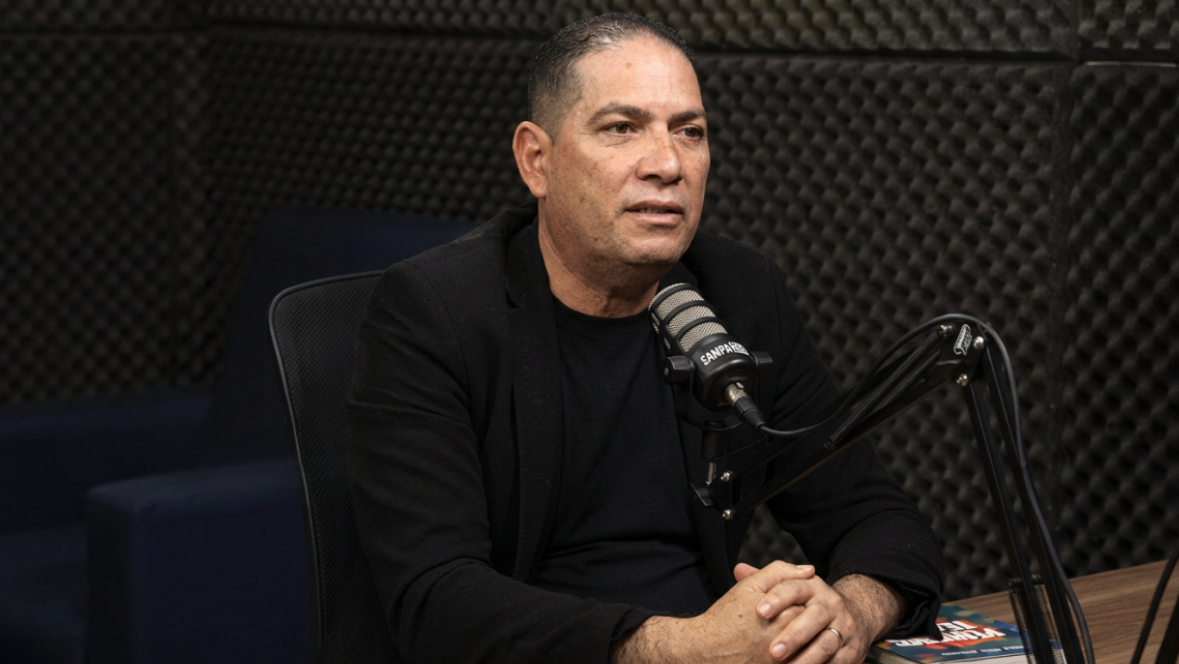
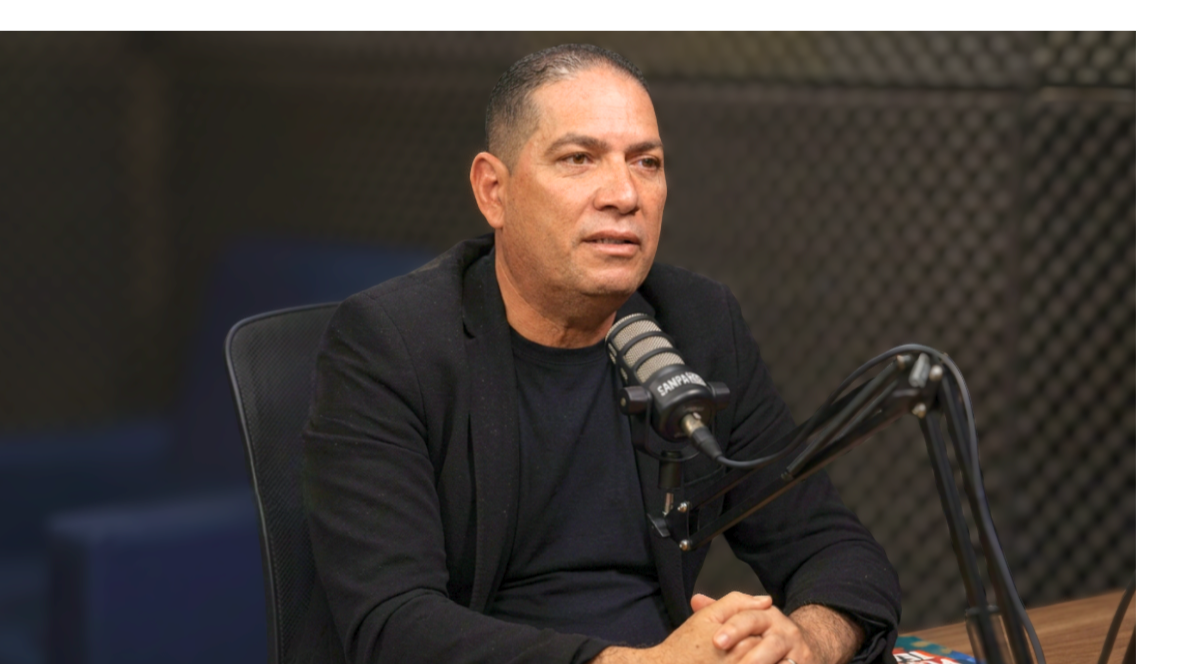
feat: foto tratada do Luque, abrindo o enquadramento no rosto
Troca a foto pela versão tratada que o André mandou e corrige o mesmo erro na
lista de papéis: psicólogo, não psicanalista.

O arquivo muda de nome de propósito. O conteúdo tinha sido trocado mantendo
`luque-podcast.webp`, e como a URL do otimizador não mudava, o navegador
continuava servindo a foto antiga do cache — o mesmo aconteceria no CDN em
produção. Nome novo, cache morto.

O clip-path que abre a foto era simétrico, então a janela nascia no meio da
tela e pegava metade rosto, metade peito. Topo e base agora abrem de alturas
diferentes (14%/36%), o que leva a janela para o terço superior, onde o rosto
está. O estado aberto é o mesmo de antes.

Resolução segue 1179x664 — a foto tratada tem o mesmo tamanho da anterior, e
falta pixel na origem para a nitidez que o layout pede.

diff --git a/components/quem-e-o-luque.tsx b/components/quem-e-o-luque.tsx
@@ -22,7 +22,7 @@ const CRP = "CRP 139094";
 
 // Os papéis vêm do André: o cara tem repertório clínico e é pai, avô, pastor e
 // músico. É essa soma que faz alguém confiar o próprio pânico a ele.
-const PAPEIS = ["psicanalista", "pai", "avô", "pastor", "músico"];
+const PAPEIS = ["psicólogo", "pai", "avô", "pastor", "músico"];
 
 // TODO (André): copy provisória. Formação e tempo de clínica não estão aqui
 // porque eu não invento dado do Luque.
@@ -76,12 +76,15 @@ export function QuemEOLuque() {
 
   // A foto cresce do centro até ocupar a tela — clip-path em vez de escala,
   // pra imagem não distorcer nem perder nitidez no caminho.
+  // A janela nasce sobre o rosto, não no meio da tela: ele fica no terço
+  // superior da foto, então topo e base abrem de alturas diferentes.
   const recorte = useTransform(scrollYProgress, (v) => {
     const abertura = Math.min(1, v / 0.34);
-    const vertical = 24 * (1 - abertura);
+    const topo = 14 * (1 - abertura);
+    const base = 36 * (1 - abertura);
     const horizontal = 28 * (1 - abertura);
     const raio = 24 * (1 - abertura);
-    return `inset(${vertical}% ${horizontal}% ${vertical}% ${horizontal}% round ${raio}px)`;
+    return `inset(${topo}% ${horizontal}% ${base}% ${horizontal}% round ${raio}px)`;
   });
 
   // O véu só escurece depois que a foto já tomou a tela: é o que deixa a fala
@@ -111,7 +114,7 @@ export function QuemEOLuque() {
 
           <div className="relative mt-10 aspect-[16/9] overflow-hidden rounded-[24px] bg-[#e8e4da]">
             <Image
-              src="/luque-podcast.webp"
+              src="/luque-podcast-v2.webp"
               alt={ALT}
               fill
               quality={100}
@@ -157,7 +160,7 @@ export function QuemEOLuque() {
             className="relative h-full w-full"
           >
             <Image
-              src="/luque-podcast.webp"
+              src="/luque-podcast-v2.webp"
               alt={ALT}
               fill
               priority={false}
